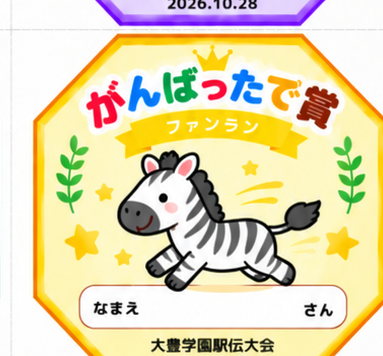
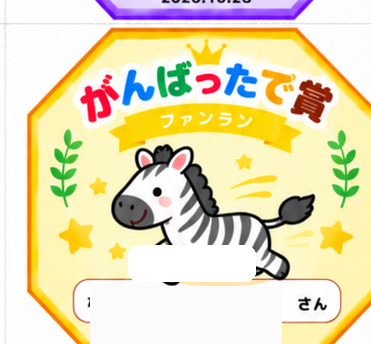
Add files via upload

diff --git a/app.js b/app.js
@@ -8,7 +8,7 @@ const LOCK_STALE_MS = 90000;
 const HEARTBEAT_MS = 20000;
 const DEFAULT_NOTICE = '開会式は、体育館で10時からとなっています。参加者は、5分前にはお集まりください。';
 const DEFAULT_CODES = { admin:'1234', A:'1111', B:'2222', C:'3333' };
-const APP_VERSION='1.0.8';
+const APP_VERSION='1.0.9';
 const TEAM_COLORS={
   1:'#FA927E',2:'#78C7FC',3:'#F8CC76',4:'#9EE6B4',5:'#C1A6F9',
   6:'#F6AAD2',7:'#88E2DB',8:'#F3B180',9:'#A5BDF3',10:'#D2E58A'
@@ -676,7 +676,7 @@ function certificatePageHtml(kind,data){
   return `<section class="cert-page"><img class="cert-bg" src="${esc(bg)}" /><div class="cert-content record-certificate"><div class="cert-title">記録証</div><div class="cert-team">${esc(data.teamName||'チーム名')}</div><div class="cert-recipient">${esc(data.name||'選手名')} <small>殿</small></div><div class="record-table"><div><span>出場区間</span><strong>${esc(data.legLabel||'第1区間')}</strong></div><div><span>区間距離</span><strong>${esc(data.distance||'未設定')}</strong></div><div><span>記録</span><strong>${esc(data.lap||'--:--:--')}</strong></div><div><span>区間順位</span><strong>${esc(data.legRank||'—')}</strong></div></div><div class="cert-body compact">あなたの「${esc(eventName)}」における記録を<br>ここに証します</div>${certificateCommonFoot(cfg)}</div></section>`;
 }
 function certificatePrintStyles(){return `
-@page{size:A4 portrait;margin:0}*{box-sizing:border-box}html,body{margin:0;padding:0;background:#e7edf3;font-family:"Yu Mincho","Hiragino Mincho ProN","Noto Serif JP",serif;color:#172b3c;-webkit-print-color-adjust:exact;print-color-adjust:exact}.toolbar{position:sticky;top:0;z-index:5;padding:10px;background:#102b47;color:#fff;text-align:center;font-family:sans-serif}.toolbar button{border:0;border-radius:8px;padding:9px 18px;font-weight:800;cursor:pointer}.cert-page{width:210mm;height:297mm;position:relative;margin:12px auto;background:#fff;overflow:hidden;page-break-after:always;box-shadow:0 8px 28px #0002}.cert-page:last-child{page-break-after:auto}.cert-bg{position:absolute;inset:0;width:210mm;height:297mm;object-fit:fill}.cert-content{position:absolute;inset:0;text-align:center}.cert-title{position:absolute;top:40mm;left:24mm;right:24mm;height:17mm;display:flex;align-items:center;justify-content:center;font-size:13.5mm;font-weight:700;line-height:1;letter-spacing:.13em;color:#1e3550}.cert-subtitle{position:absolute;top:67mm;left:25mm;right:25mm;font-size:8mm;font-weight:700;color:#9b752d}.cert-recipient{position:absolute;top:92mm;left:35mm;right:35mm;min-height:16mm;display:flex;align-items:center;justify-content:center;font-size:9.2mm;font-weight:700;border-bottom:.3mm solid #788795;padding-bottom:1.8mm}.cert-recipient small{font-size:4.5mm;font-weight:500;margin-left:2mm}.cert-detail{position:absolute;top:113mm;left:28mm;right:28mm;font-size:4.6mm}.cert-record{position:absolute;top:125mm;left:28mm;right:28mm;font-size:6.8mm;font-weight:700;color:#183d63}.cert-body{position:absolute;top:151mm;left:30mm;right:30mm;font-size:5.8mm;line-height:2.0}.team-award .cert-body,.individual-award .cert-body{font-size:6.7mm;line-height:2.1}.cert-body.compact{top:205mm;font-size:5.9mm}.cert-date{position:absolute;top:232mm;left:30mm;right:30mm;font-size:4.2mm}.cert-issuer{position:absolute;top:243mm;left:42mm;right:28mm;min-height:22mm;font-size:4.6mm;display:flex;align-items:center;justify-content:flex-end;gap:4mm}.cert-issuer span{font-size:4mm}.cert-issuer strong{font-size:4.8mm}.cert-seal-image{width:18mm;height:18mm;object-fit:contain}.cert-seal-text{--seal-cols:2;--seal-rows:2;position:relative;width:18mm;height:18mm;border:.9mm solid #a91f25;color:#a91f25;display:grid;place-items:center;font-family:"Yu Mincho","Hiragino Mincho ProN",serif;font-size:4.1mm;font-weight:900;line-height:1;background:rgba(255,255,255,.18);box-shadow:inset 0 0 0 .4mm #a91f25;padding:1.6mm}.cert-seal-text:after{content:"";position:absolute;inset:.75mm;border:.25mm solid rgba(169,31,37,.8);pointer-events:none}.seal-glyph-grid{width:100%;height:100%;display:grid;grid-template-columns:repeat(var(--seal-cols),1fr);grid-template-rows:repeat(var(--seal-rows),1fr);align-items:center;justify-items:center}.seal-glyph-grid i{font-style:normal;line-height:1}.cert-team{position:absolute;top:74mm;left:28mm;right:28mm;font-size:5.2mm}.record-certificate{font-family:"Yu Gothic","Hiragino Sans",sans-serif;color:#163d62}.record-certificate .cert-title{top:46mm;height:17mm;font-size:13mm;letter-spacing:.11em;color:#173f65}.record-certificate .cert-team{top:73mm;font-size:5.4mm;font-weight:800;color:#3d6f99}.record-certificate .cert-recipient{top:88mm;left:34mm;right:34mm;font-family:"Yu Mincho","Hiragino Mincho ProN",serif;color:#152f49;font-size:8.8mm;border-bottom:none;padding-bottom:0}.record-table{position:absolute;top:118mm;left:34mm;right:34mm;font-size:4.5mm;text-align:left;border:.32mm solid #a9cbea;border-radius:4mm;overflow:hidden;background:rgba(255,255,255,.82)}.record-table>div{display:grid;grid-template-columns:1fr 1.35fr;gap:7mm;padding:3.1mm 4mm;min-height:15mm;align-items:center}.record-table>div+div{border-top:.22mm solid #c7dceb}.record-table strong{text-align:right;font-size:5mm;color:#113e68}.record-certificate .cert-body.compact{top:207mm}.record-certificate .cert-date{top:236mm}.record-certificate .cert-issuer{top:247mm}.funrun-kicker{position:absolute;top:25mm;left:38mm;right:38mm;font-family:Arial,sans-serif;font-size:3mm;font-weight:700;letter-spacing:.24em;color:#668f79}.funrun-award{font-family:"Yu Gothic","Hiragino Sans",sans-serif;color:#38584a}.funrun-award .cert-title{top:37mm;height:17mm;font-family:"Yu Mincho","Hiragino Mincho ProN",serif;font-size:13.5mm;color:#3e765e;letter-spacing:.04em}.funrun-award .cert-team{top:70mm;font-size:4.6mm;color:#7c6b3d;letter-spacing:.12em;font-weight:700}.funrun-award .cert-recipient{top:94mm;left:38mm;right:38mm;font-family:"Yu Mincho","Hiragino Mincho ProN",serif;font-size:9.4mm;border-bottom:.3mm solid #9fb5a7;color:#284f3d}.funrun-award .cert-body{top:149mm;left:32mm;right:32mm;font-size:6.2mm;line-height:2.05}.funrun-award .cert-date{top:230mm}.funrun-award .cert-issuer{top:244mm}@media print{body{background:#fff}.toolbar{display:none}.cert-page{margin:0;box-shadow:none}}`}
+@page{size:A4 portrait;margin:0}*{box-sizing:border-box}html,body{margin:0;padding:0;background:#e7edf3;font-family:"Yu Mincho","Hiragino Mincho ProN","Noto Serif JP",serif;color:#172b3c;-webkit-print-color-adjust:exact;print-color-adjust:exact}.toolbar{position:sticky;top:0;z-index:5;padding:10px;background:#102b47;color:#fff;text-align:center;font-family:sans-serif}.toolbar button{border:0;border-radius:8px;padding:9px 18px;font-weight:800;cursor:pointer}.cert-page{width:210mm;height:297mm;position:relative;margin:12px auto;background:#fff;overflow:hidden;page-break-after:always;box-shadow:0 8px 28px #0002}.cert-page:last-child{page-break-after:auto}.cert-bg{position:absolute;inset:0;width:210mm;height:297mm;object-fit:fill}.cert-content{position:absolute;inset:0;text-align:center}.cert-title{position:absolute;top:40mm;left:24mm;right:24mm;height:17mm;display:flex;align-items:center;justify-content:center;font-size:13.5mm;font-weight:700;line-height:1;letter-spacing:.13em;color:#1e3550}.cert-subtitle{position:absolute;top:67mm;left:25mm;right:25mm;font-size:8mm;font-weight:700;color:#9b752d}.cert-recipient{position:absolute;top:92mm;left:35mm;right:35mm;min-height:16mm;display:flex;align-items:center;justify-content:center;font-size:9.2mm;font-weight:700;border-bottom:.3mm solid #788795;padding-bottom:1.8mm}.cert-recipient small{font-size:4.5mm;font-weight:500;margin-left:2mm}.cert-detail{position:absolute;top:113mm;left:28mm;right:28mm;font-size:4.6mm}.cert-record{position:absolute;top:125mm;left:28mm;right:28mm;font-size:6.8mm;font-weight:700;color:#183d63}.cert-body{position:absolute;top:151mm;left:30mm;right:30mm;font-size:5.8mm;line-height:2.0}.team-award .cert-body,.individual-award .cert-body{font-size:6.7mm;line-height:2.1}.cert-body.compact{top:205mm;font-size:5.9mm}.cert-date{position:absolute;top:232mm;left:30mm;right:30mm;font-size:4.2mm}.cert-issuer{position:absolute;top:243mm;left:42mm;right:28mm;min-height:22mm;font-size:4.6mm;display:flex;align-items:center;justify-content:flex-end;gap:4mm}.cert-issuer span{font-size:4mm}.cert-issuer strong{font-size:4.8mm}.cert-seal-image{width:18mm;height:18mm;object-fit:contain}.cert-seal-text{--seal-cols:2;--seal-rows:2;position:relative;width:18mm;height:18mm;border:.9mm solid #a91f25;color:#a91f25;display:grid;place-items:center;font-family:"Yu Mincho","Hiragino Mincho ProN",serif;font-size:4.1mm;font-weight:900;line-height:1;background:rgba(255,255,255,.18);box-shadow:inset 0 0 0 .4mm #a91f25;padding:1.6mm}.cert-seal-text:after{content:"";position:absolute;inset:.75mm;border:.25mm solid rgba(169,31,37,.8);pointer-events:none}.seal-glyph-grid{width:100%;height:100%;display:grid;grid-template-columns:repeat(var(--seal-cols),1fr);grid-template-rows:repeat(var(--seal-rows),1fr);align-items:center;justify-items:center}.seal-glyph-grid i{font-style:normal;line-height:1}.cert-team{position:absolute;top:74mm;left:28mm;right:28mm;font-size:5.2mm}.record-certificate{font-family:"Yu Gothic","Hiragino Sans",sans-serif;color:#163d62}.record-certificate .cert-title{top:46mm;height:17mm;font-size:13mm;letter-spacing:.11em;color:#173f65}.record-certificate .cert-team{top:73mm;font-size:5.4mm;font-weight:800;color:#3d6f99}.record-certificate .cert-recipient{top:88mm;left:34mm;right:34mm;font-family:"Yu Mincho","Hiragino Mincho ProN",serif;color:#152f49;font-size:8.8mm;border-bottom:none;padding-bottom:0}.record-table{position:absolute;top:118mm;left:34mm;right:34mm;font-size:4.5mm;text-align:left;border:.32mm solid #a9cbea;border-radius:4mm;overflow:hidden;background:rgba(255,255,255,.82)}.record-table>div{display:grid;grid-template-columns:1fr 1.35fr;gap:7mm;padding:3.1mm 4mm;min-height:15mm;align-items:center}.record-table>div+div{border-top:.22mm solid #c7dceb}.record-table strong{text-align:right;font-size:5mm;color:#113e68}.record-certificate .cert-body.compact{top:207mm}.record-certificate .cert-date{top:236mm}.record-certificate .cert-issuer{top:247mm}.funrun-kicker{position:absolute;top:25mm;left:38mm;right:38mm;font-family:Arial,sans-serif;font-size:3mm;font-weight:700;letter-spacing:.24em;color:#668f79}.funrun-award{font-family:"Yu Gothic","Hiragino Sans",sans-serif;color:#38584a}.funrun-award .cert-title{top:35mm;height:19mm;font-family:"Yu Mincho","Hiragino Mincho ProN",serif;font-size:15mm;color:#3e765e;letter-spacing:.035em}.funrun-award .cert-team{top:68mm;font-size:5.8mm;color:#7c6b3d;letter-spacing:.10em;font-weight:800}.funrun-award .cert-recipient{top:91mm;left:34mm;right:34mm;font-family:"Yu Mincho","Hiragino Mincho ProN",serif;font-size:10.8mm;border-bottom:.35mm solid #9fb5a7;color:#284f3d}.funrun-award .cert-body{top:129mm;left:28mm;right:28mm;font-size:7.1mm;line-height:2.05;font-weight:600}.funrun-award .cert-date{top:231mm;font-size:5.2mm;font-weight:700}.funrun-award .cert-issuer{top:245mm;left:34mm;right:24mm;font-size:5.2mm}.funrun-award .cert-issuer span{font-size:4.8mm}.funrun-award .cert-issuer strong{font-size:5.6mm}@media print{body{background:#fff}.toolbar{display:none}.cert-page{margin:0;box-shadow:none}}`}
 function openCertificatePages(pages,title='証書プレビュー'){
   if(!pages.length){toast('出力できるデータがありません');return;}const w=window.open('','_blank');if(!w){toast('ポップアップを許可してください');return;}w.document.open();w.document.write(`<!doctype html><html lang="ja"><head><meta charset="utf-8"><title>${esc(title)}</title><style>${certificatePrintStyles()}</style></head><body><div class="toolbar"><button onclick="window.print()">PDF・印刷</button>　${esc(title)}（${pages.length}枚）</div>${pages.join('')}</body></html>`);w.document.close();
 }
@@ -709,11 +709,11 @@ async function printFunRunCertificates(onlyAttended=true){
 async function printOneFunRunCertificate(id){const r=state.funRunEntries?.[id];if(!r)return;await refreshCertificateAssetUrls();openCertificatePages([certificatePageHtml('funRunAward',r)],state.settings?.funRunCertificateTitle||'がんばったで賞');}
 
 function funRunMedalStyles(){return `
-@page{size:A4 portrait;margin:0}*{box-sizing:border-box}html,body{margin:0;padding:0;background:#eef2f5;font-family:"Yu Gothic","Hiragino Sans",sans-serif;-webkit-print-color-adjust:exact;print-color-adjust:exact}.toolbar{position:sticky;top:0;z-index:5;padding:9px;background:#173d61;color:#fff;text-align:center}.toolbar button{border:0;border-radius:8px;padding:8px 18px;font-weight:800}.medal-sheet{width:210mm;height:297mm;background:#fff;margin:10px auto;display:grid;grid-template-columns:70mm 70mm;grid-template-rows:repeat(4,70mm);justify-content:center;align-content:center;column-gap:5mm;row-gap:0;page-break-after:always;box-shadow:0 5px 22px #0002}.medal-sheet:last-child{page-break-after:auto}.medal-cell{width:70mm;height:70mm;position:relative;overflow:hidden;background:#fff;clip-path:polygon(12% 0,88% 0,100% 12%,100% 88%,88% 100%,12% 100%,0 88%,0 12%)}.medal-bg{position:absolute;inset:0;width:100%;height:100%;object-fit:fill}.medal-clean-top,.medal-clean-left,.medal-clean-right{position:absolute;background:#fff;z-index:1}.medal-clean-top{top:0;left:0;right:0;height:1.4mm}.medal-clean-left{top:0;bottom:0;left:0;width:1.4mm}.medal-clean-right{top:0;bottom:0;right:0;width:1.4mm}.medal-clean-footer{position:absolute;left:17%;right:17%;bottom:1.3%;height:16.4%;background:#fff9de;clip-path:polygon(4% 0,96% 0,100% 18%,96% 100%,4% 100%,0 18%);z-index:1}.medal-name{position:absolute;top:73.2%;left:22%;right:22%;height:10%;display:flex;align-items:center;justify-content:center;font-size:3.9mm;font-weight:900;color:#283745;white-space:nowrap;overflow:hidden;text-overflow:ellipsis;text-shadow:0 0 .8mm rgba(255,255,255,.95),0 .1mm .3mm rgba(255,255,255,.9);z-index:2}.medal-event{position:absolute;left:20%;right:20%;bottom:6.8%;text-align:center;font-size:2.25mm;line-height:1.1;font-weight:800;color:#25343f;white-space:nowrap;overflow:hidden;text-overflow:ellipsis;text-shadow:0 0 .8mm rgba(255,255,255,.96),0 .1mm .3mm rgba(255,255,255,.9);z-index:2}.medal-date{position:absolute;left:20%;right:20%;bottom:2.7%;text-align:center;font-size:2.45mm;font-weight:900;color:#25343f;white-space:nowrap;overflow:hidden;text-overflow:ellipsis;text-shadow:0 0 .8mm rgba(255,255,255,.96),0 .1mm .3mm rgba(255,255,255,.9);z-index:2}@media print{body{background:#fff}.toolbar{display:none}.medal-sheet{margin:0;box-shadow:none}}`}
+@page{size:A4 portrait;margin:0}*{box-sizing:border-box}html,body{margin:0;padding:0;background:#eef2f5;font-family:"Yu Gothic","Hiragino Sans",sans-serif;-webkit-print-color-adjust:exact;print-color-adjust:exact}.toolbar{position:sticky;top:0;z-index:5;padding:9px;background:#173d61;color:#fff;text-align:center}.toolbar button{border:0;border-radius:8px;padding:8px 18px;font-weight:800}.medal-sheet{width:210mm;height:297mm;background:#fff;margin:10px auto;display:grid;grid-template-columns:70mm 70mm;grid-template-rows:repeat(4,70mm);justify-content:center;align-content:center;column-gap:5mm;row-gap:0;page-break-after:always;box-shadow:0 5px 22px #0002}.medal-sheet:last-child{page-break-after:auto}.medal-cell{width:70mm;height:70mm;position:relative;overflow:hidden;background:#fff;clip-path:polygon(12% 0,88% 0,100% 12%,100% 88%,88% 100%,12% 100%,0 88%,0 12%)}.medal-bg{position:absolute;inset:0;width:100%;height:100%;object-fit:fill}.medal-name{position:absolute;top:73.0%;left:29%;right:24%;height:8.5%;display:flex;align-items:center;justify-content:center;font-size:3.65mm;font-weight:900;color:#1d4d91;white-space:nowrap;overflow:hidden;text-overflow:ellipsis;z-index:2}.medal-event{position:absolute;left:22%;right:22%;bottom:8.0%;text-align:center;font-size:2.45mm;line-height:1.05;font-weight:900;color:#5a2b16;white-space:nowrap;overflow:hidden;text-overflow:ellipsis;z-index:2}.medal-date{position:absolute;left:22%;right:22%;bottom:3.3%;text-align:center;font-size:2.55mm;font-weight:900;color:#5a2b16;white-space:nowrap;overflow:hidden;text-overflow:ellipsis;z-index:2}@media print{body{background:#fff}.toolbar{display:none}.medal-sheet{margin:0;box-shadow:none}}`}
 function funRunMedalHtml(row){
   const info=funRunAnimalInfo(row?.animal),eventName=state.settings?.eventName||'駅伝大会',date=certificateDateText();
   const medalName=row&&Object.prototype.hasOwnProperty.call(row,'name')?(row.name??''):'なまえ';
-  return `<div class="medal-cell"><img class="medal-bg" src="${esc(absoluteAppUrl(info.file))}" alt="${esc(info.label)}"><div class="medal-clean-top"></div><div class="medal-clean-left"></div><div class="medal-clean-right"></div><div class="medal-clean-footer"></div><div class="medal-name">${esc(medalName)}</div><div class="medal-event">${esc(eventName)}</div><div class="medal-date">${esc(date)}</div></div>`;
+  return `<div class="medal-cell"><img class="medal-bg" src="${esc(absoluteAppUrl(info.file))}" alt="${esc(info.label)}"><div class="medal-name">${esc(medalName)}</div><div class="medal-event">${esc(eventName)}</div><div class="medal-date">${esc(date)}</div></div>`;
 }
 function openFunRunMedalSheets(rows,title='ファンランメダル'){
   const sourceRows=Array.isArray(rows)?rows:[];
@@ -1297,7 +1297,7 @@ const initialScreen=new URLSearchParams(location.search).get('screen');if(initia
 
 // ---------- 管理画面カテゴリタブ (v1.0.7) ----------
 const ADMIN_TAB_KEY='ekiden_admin_category_v1';
-const ADMIN_TAB_CAPTIONS={overview:'大会状況・同期状態・本番前チェック',settings:'年度切替・アクセスコード・大会設定',entries:'申込受付・ファンラン・チーム登録・QR',results:'正式結果・表彰設定・表彰状・記録証',timing:'計測コード・正式通過・生計測ログ・参考計測',notices:'参加者向けのお知らせを作成・管理',data:'バックアップ・CSV出力・テスト・初期化'};
+const ADMIN_TAB_CAPTIONS={overview:'大会状況・同期状態・本番前チェック',settings:'年度切替・アクセスコード・大会設定',entries:'申込受付・ファンラン・チーム登録・QR',results:'正式結果・表彰設定・表彰状・記録証・ファンランメダル',timing:'計測コード・正式通過・生計測ログ・参考計測',notices:'参加者向けのお知らせを作成・管理',data:'バックアップ・CSV出力・テスト・初期化'};
 function setAdminCategoryTab(tab,save=true){const valid=ADMIN_TAB_CAPTIONS[tab]?tab:'overview';document.querySelectorAll('.admin-category-tab').forEach(btn=>{const active=btn.dataset.adminTab===valid;btn.classList.toggle('active',active);btn.setAttribute('aria-selected',active?'true':'false');});document.querySelectorAll('.admin-tab-panel').forEach(panel=>panel.classList.toggle('admin-tab-visible',panel.dataset.adminCategory===valid));const caption=document.getElementById('adminTabCaption');if(caption)caption.textContent=ADMIN_TAB_CAPTIONS[valid];if(save){try{localStorage.setItem(ADMIN_TAB_KEY,valid);}catch(e){}}}
 function initAdminCategoryTabs(){const tabs=document.getElementById('adminCategoryTabs');if(!tabs)return;tabs.querySelectorAll('.admin-category-tab').forEach(btn=>btn.addEventListener('click',()=>setAdminCategoryTab(btn.dataset.adminTab)));let saved='overview';try{saved=localStorage.getItem(ADMIN_TAB_KEY)||'overview';}catch(e){}setAdminCategoryTab(saved,false);}
 if(document.readyState==='loading')document.addEventListener('DOMContentLoaded',initAdminCategoryTabs);else initAdminCategoryTabs();

diff --git a/index.html b/index.html
@@ -232,10 +232,10 @@
         <nav class="admin-category-tabs" id="adminCategoryTabs" aria-label="管理画面カテゴリ">
           <button type="button" class="admin-category-tab active" data-admin-tab="overview">概要</button>
           <button type="button" class="admin-category-tab" data-admin-tab="settings">大会設定</button>
+          <button type="button" class="admin-category-tab" data-admin-tab="notices">お知らせ</button>
           <button type="button" class="admin-category-tab" data-admin-tab="entries">申込・参加者</button>
           <button type="button" class="admin-category-tab" data-admin-tab="results">結果・表彰</button>
           <button type="button" class="admin-category-tab" data-admin-tab="timing">計測管理</button>
-          <button type="button" class="admin-category-tab" data-admin-tab="notices">お知らせ</button>
           <button type="button" class="admin-category-tab" data-admin-tab="data">データ管理</button>
         </nav>
         <div class="admin-tab-caption" id="adminTabCaption">大会状況・同期状態・本番前チェック</div>
@@ -261,7 +261,7 @@
           </article>
 
           <article class="panel wide event-manager-panel admin-tab-panel" data-admin-category="settings">
-            <div class="panel-heading"><h2>年度別大会管理</h2><span class="mini-badge online">v1.0.8</span></div>
+            <div class="panel-heading"><h2>年度別大会管理</h2><span class="mini-badge online">v1.0.9</span></div>
             <p class="hint">現在大会は1つだけ運用します。新しい大会を作成すると、現在大会は過去大会として自動保存されます。申込者・チーム・計測記録は新大会へ引き継ぎません。</p>
             <div id="currentEventSummary" class="current-event-summary"></div>
             <div class="new-event-box">
@@ -345,7 +345,7 @@
           </article>
 
           <article class="panel wide certificate-admin-panel admin-tab-panel" data-admin-category="results">
-            <div class="panel-heading"><h2>表彰状・記録証テンプレート</h2><span class="mini-badge online">v1.0.8</span></div>
+            <div class="panel-heading"><h2>表彰状・記録証テンプレート</h2><span class="mini-badge online">v1.0.9</span></div>
             <p class="hint">標準テンプレートをそのまま使用できます。必要に応じてPNGをダウンロードし、Canva・PowerPoint等で編集してから背景画像としてアップロードしてください。完成した証書画像は保存せず、出力時に文字を重ねてPDF化します。</p>
             <div class="certificate-meta-grid">
               <label>主催名<input id="certificateOrganizerName" placeholder="例：大豊学園PTA" /></label>
@@ -391,6 +391,7 @@
               <button class="primary-btn" id="printAwardCertificatesBtn" type="button">表彰状を一括PDF・印刷</button>
               <button class="secondary-btn" id="printRecordCertificatesBtn" type="button">記録証を一括PDF・印刷</button>
               <button class="secondary-btn" id="printFunRunCertificatesBtn" type="button">ファンラン参加証を一括PDF・印刷</button>
+              <button class="secondary-btn" id="printFunRunMedalsBtn" type="button">ファンランメダルをA4・8枚印刷</button>
               <span class="hint">ブラウザの印刷画面から「PDFに保存」を選べます。</span>
             </div>
           </article>
@@ -412,7 +413,7 @@
           </article>
 
           <article class="panel wide funrun-admin-panel admin-tab-panel" data-admin-category="entries">
-            <div class="panel-heading"><h2>ファンラン参加者</h2><div class="action-row wrap"><button class="secondary-btn" id="loadDemoFunRunBtn">ダミー参加者を追加</button><button class="text-btn" id="exportFunRunBtn">CSV出力</button><button class="primary-btn" id="printFunRunAttendedBtn">参加証を一括PDF・印刷</button><button class="secondary-btn" id="printFunRunMedalsBtn">メダルをA4・8枚印刷</button></div></div>
+            <div class="panel-heading"><h2>ファンラン参加者</h2><div class="action-row wrap"><button class="secondary-btn" id="loadDemoFunRunBtn">ダミー参加者を追加</button><button class="text-btn" id="exportFunRunBtn">CSV出力</button><button class="primary-btn" id="printFunRunAttendedBtn">参加証を一括PDF・印刷</button></div></div>
             <div class="application-stats" id="funRunStats"></div>
             <div class="funrun-quick-entry">
               <strong>当日受付を追加</strong>
@@ -422,7 +423,7 @@
               <select id="adminFunRunAnimal"><option value="cheetah">チーター</option><option value="kangaroo">カンガルー</option><option value="mouse">ネズミ</option><option value="panda">パンダ</option><option value="bear">クマ</option><option value="penguin">ペンギン</option><option value="dolphin">イルカ</option><option value="zebra">シマウマ</option></select>
               <button class="secondary-btn" id="adminAddFunRunBtn" type="button">当日受付を追加</button>
             </div>
-            <p class="hint">ファンランは承認不要です。「参加済み」にすると、参加証とメダルの一括出力対象になります。メダルはA4縦に8枚（2列×4段）で配置します。</p>
+            <p class="hint">ファンランは承認不要です。「参加済み」にすると、参加証とメダルの一括出力対象になります。メダルの一括印刷は「結果・表彰」タブから行えます。A4縦に8枚（2列×4段）で配置します。</p>
             <div id="funRunList" class="table-wrap"></div>
           </article>
 
@@ -487,7 +488,7 @@
           </article>
 
           <article class="panel wide backup-panel admin-tab-panel" data-admin-category="data">
-            <div class="panel-heading"><h2>バックアップ・データ出力</h2><span class="mini-badge">v1.0.8</span></div>
+            <div class="panel-heading"><h2>バックアップ・データ出力</h2><span class="mini-badge">v1.0.9</span></div>
             <p class="hint">JSONバックアップには申込者の個人情報とチーム用アクセスコードが含まれます。学校・大会事務局の安全な場所に保管してください。管理者・計測係のアクセスコードはバックアップに含めません。</p>
             <div class="backup-actions">
               <button class="primary-btn" id="exportBackupBtn" type="button">現在大会をJSONバックアップ</button>
@@ -583,6 +584,6 @@
   <script src="https://cdn.jsdelivr.net/npm/@supabase/supabase-js@2"></script>
   <script src="supabase-config.js"></script>
   <script src="https://cdnjs.cloudflare.com/ajax/libs/qrcodejs/1.0.0/qrcode.min.js"></script>
-  <script type="module" src="app.js?v=1.0.8"></script>
+  <script type="module" src="app.js?v=1.0.9"></script>
 </body>
 </html>

diff --git a/V1_RELEASE_NOTES.md b/V1_RELEASE_NOTES.md
@@ -22,7 +22,7 @@ v0.15.1までのSQLパッチを適用済みの環境では、v1.0用の追加SQL
 `V1_TEST_CHECKLIST.md` に沿って、A/B/Cの複数端末計測、同時通過、通信切断・再接続、チーム参考計測の採用・取消まで確認してください。
 
 
-## v1.0.8
+## v1.0.9
 - 表彰状・記録証の位置ずれを調整
 - 個人表彰を「本人の最速1本＋全賞で1人1回」に変更
 - ファンラン参加証をひらがな中心に変更
@@ -30,7 +30,7 @@ v0.15.1までのSQLパッチを適用済みの環境では、v1.0用の追加SQL
 - チーター／カンガルー／ネズミ／パンダ／クマ／ペンギン／イルカ／シマウマの8種類
 - A4縦・8枚配置の八角形メダル印刷を追加
 
-## v1.0.8
+## v1.0.9
 - 表彰状・個人表彰状・記録証・ファンラン参加証の印刷レイアウトをA4実寸mm基準に再調整
 - 記録証の記録表と氏名欄の重なりを解消
 - 表彰状タイトル・受賞名・氏名・記録・日付・発行者・印の位置を固定化
@@ -40,7 +40,7 @@ v0.15.1までのSQLパッチを適用済みの環境では、v1.0用の追加SQL
 - 大会名・開催日は小さな差替え領域だけを使い、八角形デザインを崩さないよう修正
 
 
-## v1.0.8
+## v1.0.9
 - 管理画面を7カテゴリの上部タブへ整理
 - PC/スマホともにカテゴリ切替対応
 - 最後に開いていた管理カテゴリを端末内に記憶
